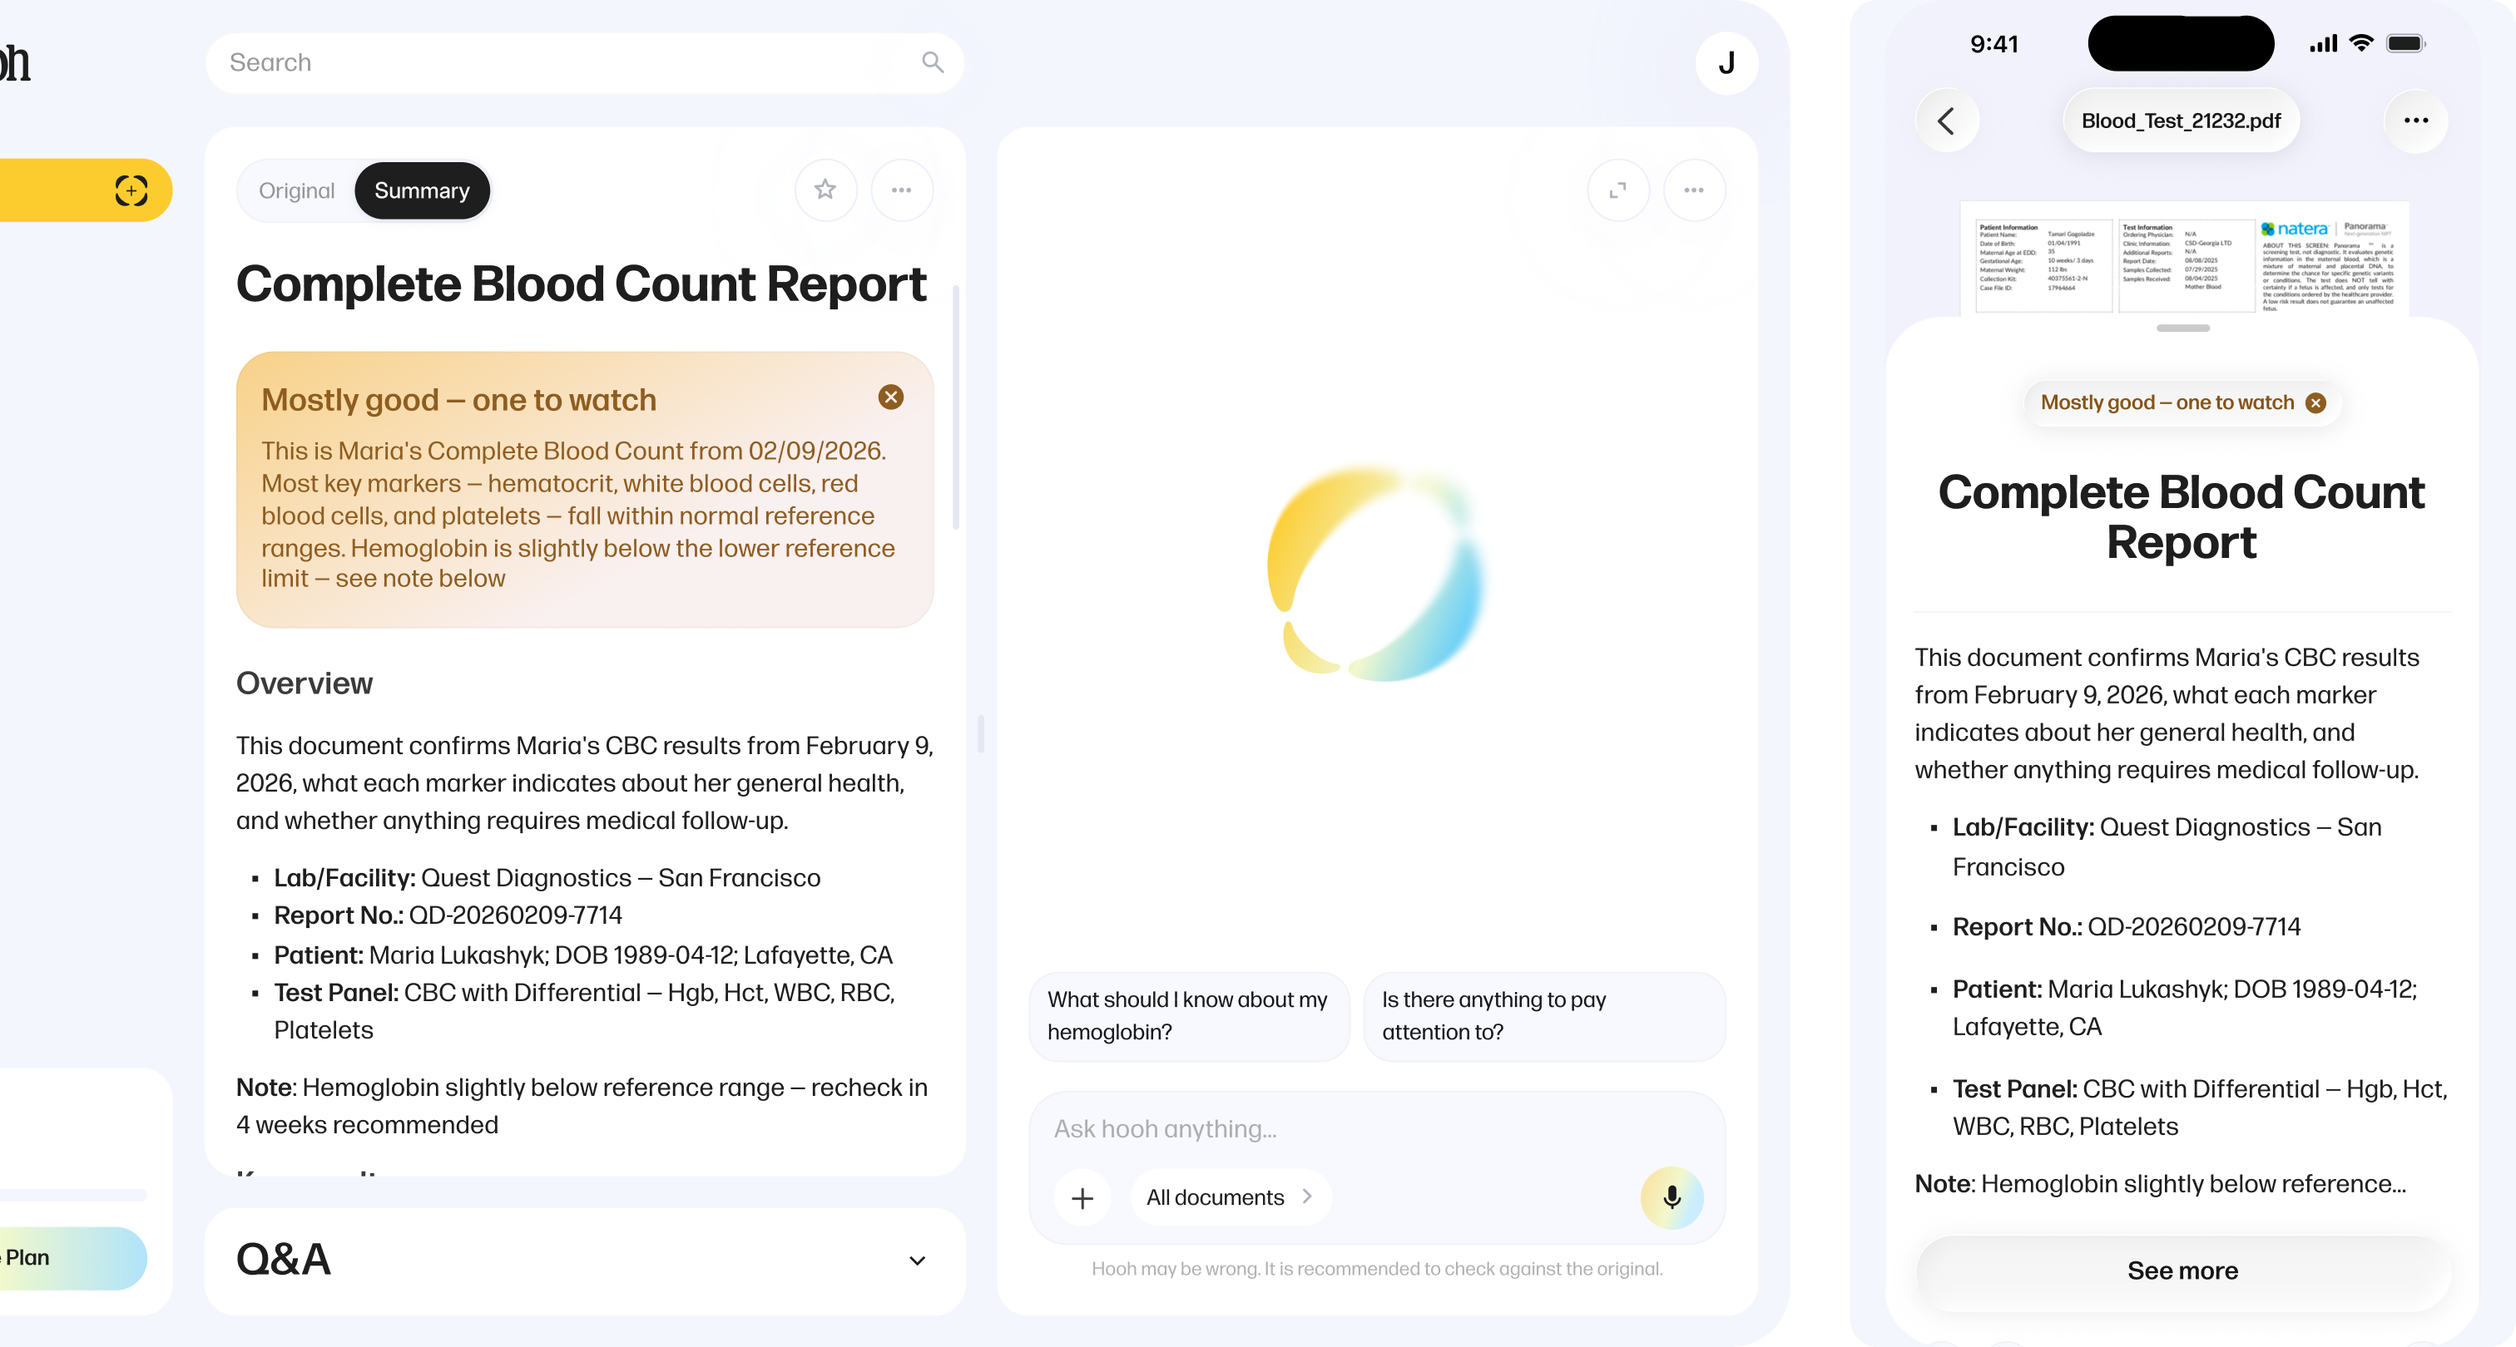
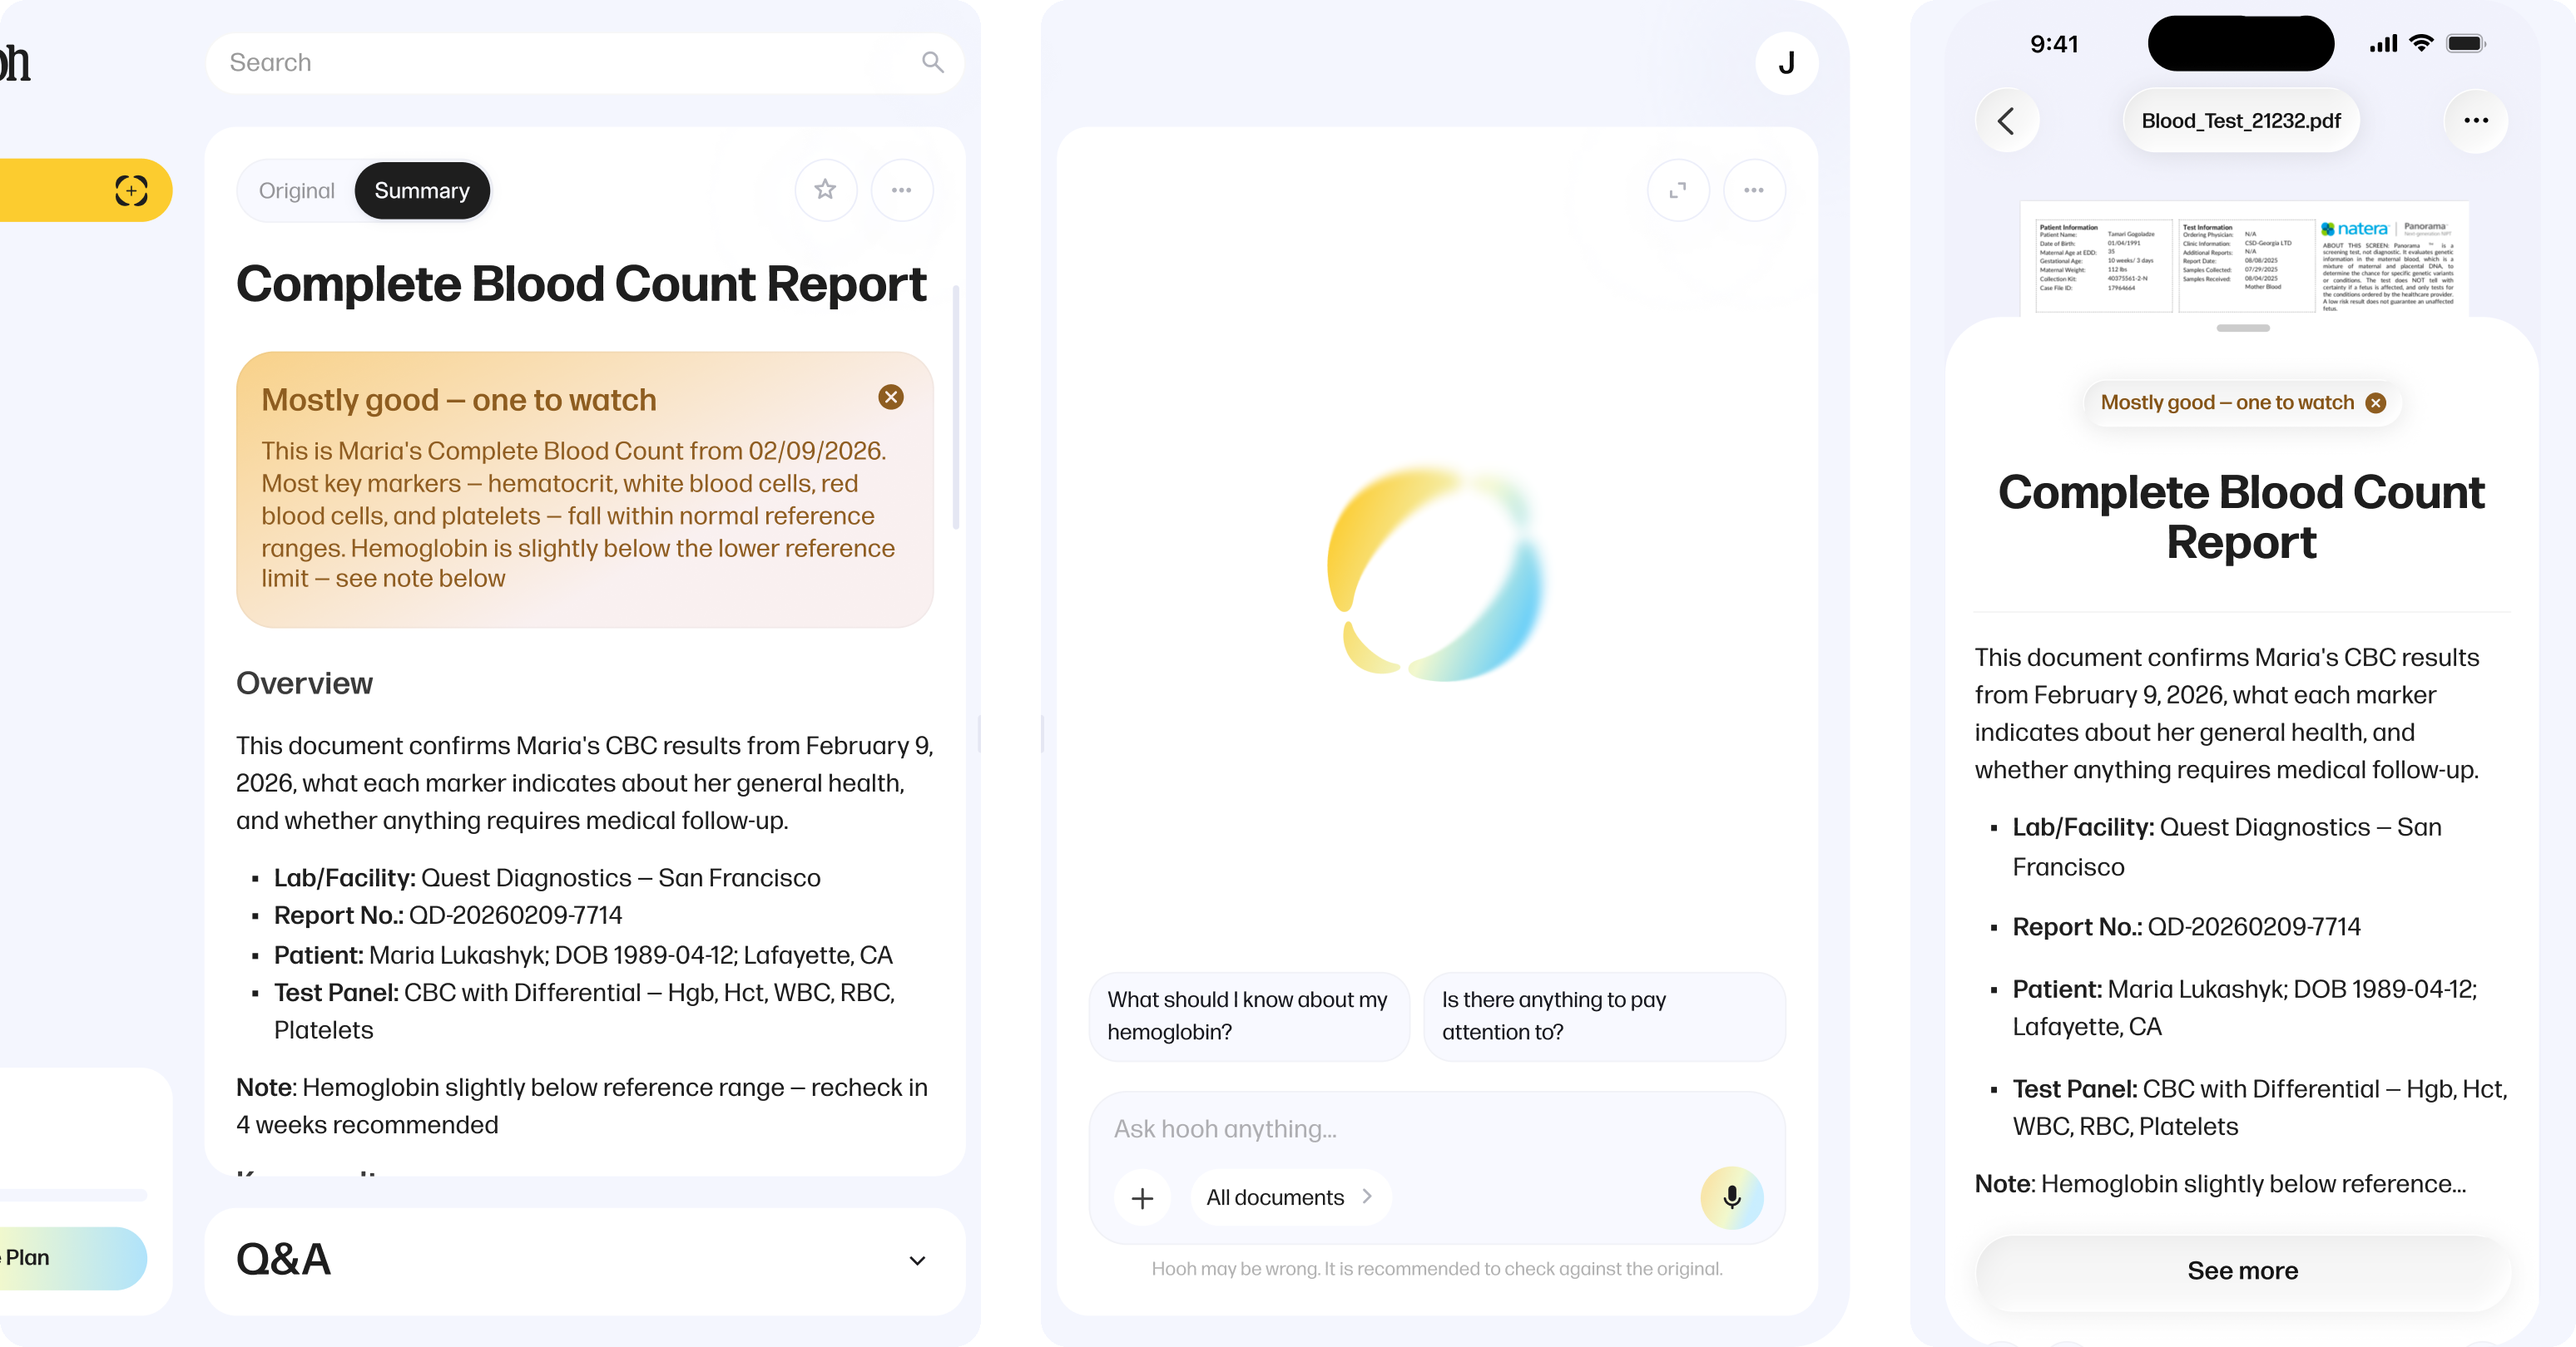
Hooh uxC: split web and chat into separate rounded plates
Previously the web+chat export sat as one continuous lavender plate
with the phone alongside, breaking the three-plate rhythm of uxB and
chatA. Crop the export at the lavender separator so the web report,
the assistant chat, and the iPhone Summary each get their own rounded
plate with 72px gaps.

diff --git a/hooh.html b/hooh.html
@@ -137,7 +137,7 @@
         </figure>
 
         <figure class="case__figure">
-          <picture><img src="assets/case-uxC.webp?v=8" alt="Desktop view of a Complete Blood Count Report with a Mostly good summary callout, a contextual Q&amp;A chat panel with the Hooh assistant, and an iOS Summary screen showing the same report" loading="lazy"></picture>
+          <picture><img src="assets/case-uxC.webp?v=9" alt="Desktop view of a Complete Blood Count Report with a Mostly good summary callout, a contextual Q&amp;A chat panel with the Hooh assistant, and an iOS Summary screen showing the same report" loading="lazy"></picture>
           <figcaption>Users can move from a quick snapshot to a detailed summary and contextual Q&amp;A without reading the full file line by line</figcaption>
         </figure>
       </section>
